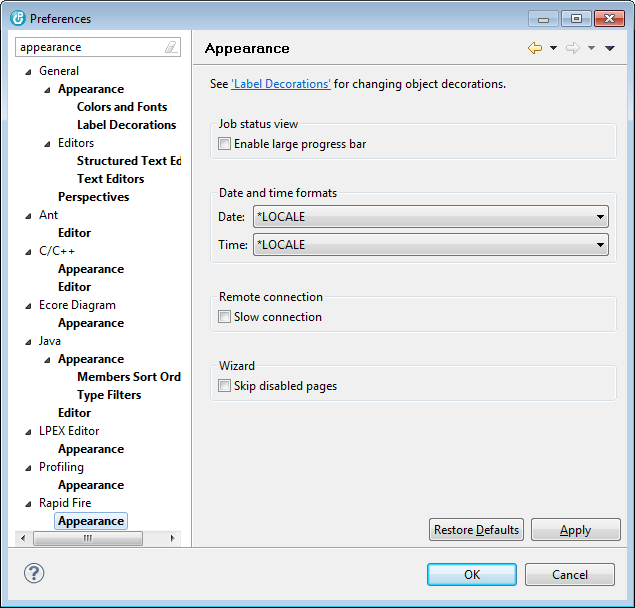
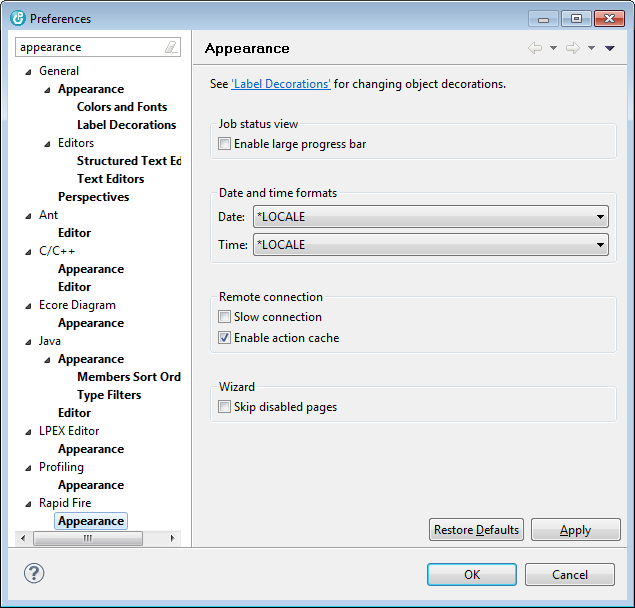
Added preferences switch "Enable action cache".
git-svn-id: https://svn.code.sf.net/p/rapid-fire/code/trunk@517 204b35f7-77ee-4d18-9f52-29c5b7e57490

Changed region(s): [[0.3291, 0.5312, 0.5386, 0.6875], [0.6583, 0.9375, 0.8079, 0.9688], [0.8378, 0.0625, 0.8677, 0.0938]]

diff --git a/eclipse/Rapid Fire Help Plugin/html/install/install_library.html b/eclipse/Rapid Fire Help Plugin/html/install/install_library.html
@@ -23,9 +23,10 @@ Before you begin:
 		                   Rapid Fire uses commitment control to update its files. Therefore a journal 
 		                   must be attached to all Rapid Fire files. By default the Rapid Fire installer
 		                   ensures that journaling is started for all Rapid Fire files.<br>
-		                   But in case that you have installed a high availability software that also use
-		                   journals to keep track of object changes, you may need to install Rapid Fire
-		                   without a journal, because that is attached by your HA software.<br><br>
+		                   But in case that you have installed a high availability software, such as 
+		                   BUS/400, MIMIX or iTERA, that also use journals to keep track of object changes, 
+		                   you may need to install Rapid Fire without a journal, because that is attached 
+		                   by your HA software.<br><br>
 		                   <font color="red">Please uncheck "Start journaling Rapid Fire files" on the 
 		                   "Transfer Rapid Fire Library" dialog to transfer the Rapid Fire library 
 		                   without attaching a journal to the Rapid Fire files.</font></td>

diff --git a/eclipse/Rapid Fire Help Plugin/html/preferences/appearance/appearance.html b/eclipse/Rapid Fire Help Plugin/html/preferences/appearance/appearance.html
@@ -57,6 +57,12 @@
 		                 enabled, <i>Rapid Fire</i> reduces fetching data from the host to a minimum,
 		                 of course with less comfort for the user.</td>
 	</tr>
+	<tr>
+		<td nowrap valign="top">Enable action cache</td><td valign="top">-</td>
+		<td valign="top">Specifies whether the state of menu options are cached. When caching is active, 
+                         context menus open faster but there might still be a problem with caching. Disable 
+                         the action cache if menu options that should be enabled are disabled.</td>
+	</tr>
 	</table>
 	<p>
 	<b>Wizard</b>

diff --git a/eclipse/Rapid Fire Core Plugin/src/biz/rapidfire/core/preferencepages/AppearancePage.java b/eclipse/Rapid Fire Core Plugin/src/biz/rapidfire/core/preferencepages/AppearancePage.java
@@ -36,6 +36,7 @@ public class AppearancePage extends PreferencePage implements IWorkbenchPreferen
     private Combo textDateFormat;
     private Combo textTimeFormat;
     private Button btnIsSlowConnection;
+    private Button btnIsActionCacheEnabled;
     private Button btnSkipDisabledPages;
 
     public AppearancePage() {
@@ -118,7 +119,6 @@ public class AppearancePage extends PreferencePage implements IWorkbenchPreferen
 
     private void createSectionDateAndTime(Composite parent) {
 
-        // Date and Time Formats
         Group groupDateAndTimeFormats = new Group(parent, SWT.NONE);
         groupDateAndTimeFormats.setLayout(new GridLayout(3, false));
         groupDateAndTimeFormats.setLayoutData(new GridData(SWT.FILL, SWT.BEGINNING, true, false, 2, 1));
@@ -143,13 +143,12 @@ public class AppearancePage extends PreferencePage implements IWorkbenchPreferen
 
     private void createSectionConnection(Composite parent) {
 
-        // Date and Time Formats
-        Group groupDateAndTimeFormats = new Group(parent, SWT.NONE);
-        groupDateAndTimeFormats.setLayout(new GridLayout(3, false));
-        groupDateAndTimeFormats.setLayoutData(new GridData(SWT.FILL, SWT.BEGINNING, true, false, 2, 1));
-        groupDateAndTimeFormats.setText(Messages.Label_Remote_Connection_settings);
+        Group groupRemoteConnection = new Group(parent, SWT.NONE);
+        groupRemoteConnection.setLayout(new GridLayout(1, false));
+        groupRemoteConnection.setLayoutData(new GridData(SWT.FILL, SWT.BEGINNING, true, false, 2, 1));
+        groupRemoteConnection.setText(Messages.Label_Remote_Connection_settings);
 
-        btnIsSlowConnection = WidgetFactory.createCheckbox(groupDateAndTimeFormats);
+        btnIsSlowConnection = WidgetFactory.createCheckbox(groupRemoteConnection);
         btnIsSlowConnection.setText(Messages.Label_Is_slow_connection);
         btnIsSlowConnection.setToolTipText(Messages.Tooltip_Is_slow_connection);
         btnIsSlowConnection.setLayoutData(new GridData(SWT.FILL, SWT.CENTER, true, false));
@@ -157,6 +156,23 @@ public class AppearancePage extends PreferencePage implements IWorkbenchPreferen
 
             public void widgetSelected(SelectionEvent event) {
                 if (validateSlowConnection()) {
+                    checkAllValues();
+                }
+            }
+
+            public void widgetDefaultSelected(SelectionEvent event) {
+                widgetSelected(event);
+            }
+        });
+
+        btnIsActionCacheEnabled = WidgetFactory.createCheckbox(groupRemoteConnection);
+        btnIsActionCacheEnabled.setText(Messages.Label_Enable_action_cache);
+        btnIsActionCacheEnabled.setToolTipText(Messages.Tooltip_Enable_action_cache);
+        btnIsActionCacheEnabled.setLayoutData(new GridData(SWT.FILL, SWT.CENTER, true, false));
+        btnIsActionCacheEnabled.addSelectionListener(new SelectionListener() {
+
+            public void widgetSelected(SelectionEvent event) {
+                if (validateActionCache()) {
                     checkAllValues();
                 }
             }
@@ -220,6 +236,7 @@ public class AppearancePage extends PreferencePage implements IWorkbenchPreferen
         preferences.setDateFormatLabel(textDateFormat.getText());
         preferences.setTimeFormatLabel(textTimeFormat.getText());
         preferences.setSlowConnection(btnIsSlowConnection.getSelection());
+        preferences.setActionCacheEnabled(btnIsActionCacheEnabled.getSelection());
         preferences.setSkipDisabledWizardPages(btnSkipDisabledPages.getSelection());
     }
 
@@ -231,6 +248,7 @@ public class AppearancePage extends PreferencePage implements IWorkbenchPreferen
         textDateFormat.setText(preferences.getDateFormatLabel());
         textTimeFormat.setText(preferences.getTimeFormatLabel());
         btnIsSlowConnection.setSelection(preferences.isSlowConnection());
+        btnIsActionCacheEnabled.setSelection(preferences.isActionCacheEnabled());
         btnSkipDisabledPages.setSelection(preferences.skipDisabledWizardPages());
 
         checkAllValues();
@@ -245,6 +263,7 @@ public class AppearancePage extends PreferencePage implements IWorkbenchPreferen
         textDateFormat.setText(preferences.getDefaultDateFormatLabel());
         textTimeFormat.setText(preferences.getDefaultTimeFormatLabel());
         btnIsSlowConnection.setSelection(preferences.getDefaultIsSlowConnection());
+        btnIsActionCacheEnabled.setSelection(preferences.getDefaultIsActionCacheEnabled());
         btnSkipDisabledPages.setSelection(preferences.getDefaultSkipDisabledWizardPages());
 
         checkAllValues();
@@ -257,6 +276,11 @@ public class AppearancePage extends PreferencePage implements IWorkbenchPreferen
     }
 
     private boolean validateSlowConnection() {
+
+        return true;
+    }
+
+    private boolean validateActionCache() {
 
         return true;
     }

diff --git a/eclipse/Rapid Fire Core Plugin/src/biz/rapidfire/core/preferences/Preferences.java b/eclipse/Rapid Fire Core Plugin/src/biz/rapidfire/core/preferences/Preferences.java
@@ -66,6 +66,7 @@ public final class Preferences {
     public static final String APPEARANCE_PROGRESS_BAR_SIZE = APPEARANCE + "PROGRESS_BAR_SIZE"; //$NON-NLS-1$
     private static final String APPEARANCE_DATE_FORMAT = APPEARANCE + "DATE_FORMAT"; //$NON-NLS-1$
     private static final String APPEARANCE_TIME_FORMAT = APPEARANCE + "TIME_FORMAT"; //$NON-NLS-1$
+    private static final String APPEARANCE_IS_ACTION_CACHE_ENABLED = APPEARANCE + "IS_ACTION_CACHE_ENABLED"; //$NON-NLS-1$
 
     private static final String WIZARD = DOMAIN + "WIZARD.";
     private static final String WIZARD_CONNECTION = WIZARD + "CONNECTION"; //$NON-NLS-1$
@@ -148,6 +149,10 @@ public final class Preferences {
         return preferenceStore.getString(APPEARANCE_TIME_FORMAT);
     }
 
+    public boolean isActionCacheEnabled() {
+        return preferenceStore.getBoolean(APPEARANCE_IS_ACTION_CACHE_ENABLED);
+    }
+
     public String getWizardConnection() {
         return preferenceStore.getString(WIZARD_CONNECTION);
     }
@@ -216,6 +221,10 @@ public final class Preferences {
         preferenceStore.setValue(APPEARANCE_TIME_FORMAT, dateFormatLabel);
     }
 
+    public void setActionCacheEnabled(boolean enabled) {
+        preferenceStore.setValue(APPEARANCE_IS_ACTION_CACHE_ENABLED, enabled);
+    }
+
     public void setWizardConnection(String connectionName) {
         preferenceStore.setValue(WIZARD_CONNECTION, connectionName);
     }
@@ -268,6 +277,7 @@ public final class Preferences {
         preferenceStore.setDefault(APPEARANCE_PROGRESS_BAR_SIZE, getDefaultIsLargeProgressBar());
         preferenceStore.setDefault(APPEARANCE_DATE_FORMAT, getDefaultDateFormatLabel());
         preferenceStore.setDefault(APPEARANCE_TIME_FORMAT, getDefaultTimeFormatLabel());
+        preferenceStore.setDefault(APPEARANCE_IS_ACTION_CACHE_ENABLED, getDefaultIsActionCacheEnabled());
 
         preferenceStore.setDefault(WIZARD_CONNECTION, getDefaultWizardConnection());
         preferenceStore.setDefault(WIZARD_RAPID_FIRE_LIBRARY, getDefaultWizardRapidFireLibrary());
@@ -325,6 +335,10 @@ public final class Preferences {
 
     public String getDefaultTimeFormatLabel() {
         return TIME_FORMAT_LOCALE;
+    }
+
+    public boolean getDefaultIsActionCacheEnabled() {
+        return true;
     }
 
     public String getDefaultWizardConnection() {

diff --git a/eclipse/Rapid Fire Core Plugin/src/biz/rapidfire/core/maintenance/job/JobManager.java b/eclipse/Rapid Fire Core Plugin/src/biz/rapidfire/core/maintenance/job/JobManager.java
@@ -184,8 +184,8 @@ public class JobManager extends AbstractManager<IRapidFireJobResource, JobKey, J
     @Override
     public Result checkAction(JobKey key, JobAction jobAction) throws Exception {
 
-        CallableStatement statement = dao.prepareCall(dao
-            .insertLibraryQualifier("{CALL " + IJDBCConnection.LIBRARY + "\"MNTJOB_checkAction\"(?, ?, ?, ?)}")); //$NON-NLS-1$ //$NON-NLS-2$
+        CallableStatement statement = dao.prepareCall(dao.insertLibraryQualifier("{CALL " + IJDBCConnection.LIBRARY //$NON-NLS-1$
+            + "\"MNTJOB_checkAction\"(?, ?, ?, ?)}")); //$NON-NLS-1$
 
         statement.setString(IJobCheckAction.ACTION, jobAction.label());
         statement.setString(IJobCheckAction.JOB, key.getJobName());
@@ -205,8 +205,8 @@ public class JobManager extends AbstractManager<IRapidFireJobResource, JobKey, J
 
     protected JobAction[] getValidActions(JobKey jobKey) throws Exception {
 
-        CallableStatement statement = dao.prepareCall(dao
-            .insertLibraryQualifier("{CALL " + IJDBCConnection.LIBRARY + "\"MNTJOB_getValidActions\"(?, ?, ?)}")); //$NON-NLS-1$ //$NON-NLS-2$
+        CallableStatement statement = dao.prepareCall(dao.insertLibraryQualifier("{CALL " + IJDBCConnection.LIBRARY //$NON-NLS-1$
+            + "\"MNTJOB_getValidActions\"(?, ?, ?)}")); //$NON-NLS-1$
 
         statement.setString(IJobGetValidActions.JOB, jobKey.getJobName());
         statement.setInt(IJobGetValidActions.NUMBER_ACTIONS, 0);
@@ -295,6 +295,22 @@ public class JobManager extends AbstractManager<IRapidFireJobResource, JobKey, J
 
     @Override
     public boolean isValidAction(IRapidFireJobResource job, JobAction action) throws Exception {
+
+        if (isActionCacheEnabled()) {
+            return isValidCachedAction(job, action);
+        } else {
+            return isValidUncachedAction(job, action);
+        }
+    }
+
+    private boolean isValidUncachedAction(IRapidFireJobResource job, JobAction action) throws Exception {
+
+        Result result = checkAction(job.getKey(), action);
+
+        return result.isSuccessfull();
+    }
+
+    private boolean isValidCachedAction(IRapidFireJobResource job, JobAction action) throws Exception {
 
         KeyJobActionCache jobActionsKey = new KeyJobActionCache(job);
 

diff --git a/eclipse/Rapid Fire Core Plugin/src/biz/rapidfire/core/maintenance/notification/NotificationManager.java b/eclipse/Rapid Fire Core Plugin/src/biz/rapidfire/core/maintenance/notification/NotificationManager.java
@@ -242,6 +242,22 @@ public class NotificationManager extends AbstractManager<IRapidFireNotificationR
     @Override
     public boolean isValidAction(IRapidFireNotificationResource notification, NotificationAction action) throws Exception {
 
+        if (isActionCacheEnabled()) {
+            return isValidCachedAction(notification, action);
+        } else {
+            return isValidUncachedAction(notification, action);
+        }
+    }
+
+    private boolean isValidUncachedAction(IRapidFireNotificationResource notification, NotificationAction action) throws Exception {
+
+        Result result = checkAction(notification.getKey(), action);
+
+        return result.isSuccessfull();
+    }
+
+    private boolean isValidCachedAction(IRapidFireNotificationResource notification, NotificationAction action) throws Exception {
+
         KeyNotificationActionCache notificationActionsKey = new KeyNotificationActionCache(notification);
 
         Set<NotificationAction> actionsSet = NotificationActionCache.getInstance().getActions(notificationActionsKey);

diff --git a/eclipse/Rapid Fire Core Plugin/src/biz/rapidfire/core/maintenance/librarylist/LibraryListManager.java b/eclipse/Rapid Fire Core Plugin/src/biz/rapidfire/core/maintenance/librarylist/LibraryListManager.java
@@ -243,6 +243,22 @@ public class LibraryListManager extends AbstractManager<IRapidFireLibraryListRes
     @Override
     public boolean isValidAction(IRapidFireLibraryListResource libraryList, LibraryListAction action) throws Exception {
 
+        if (isActionCacheEnabled()) {
+            return isValidCachedAction(libraryList, action);
+        } else {
+            return isValidUncachedAction(libraryList, action);
+        }
+    }
+
+    private boolean isValidUncachedAction(IRapidFireLibraryListResource libraryList, LibraryListAction action) throws Exception {
+
+        Result result = checkAction(libraryList.getKey(), action);
+
+        return result.isSuccessfull();
+    }
+
+    private boolean isValidCachedAction(IRapidFireLibraryListResource libraryList, LibraryListAction action) throws Exception {
+
         KeyLibraryListActionCache libraryListActionsKey = new KeyLibraryListActionCache(libraryList);
 
         Set<LibraryListAction> actionsSet = LibraryListActionCache.getInstance().getActions(libraryListActionsKey);

diff --git a/eclipse/Rapid Fire Core Plugin/src/biz/rapidfire/core/maintenance/conversion/ConversionManager.java b/eclipse/Rapid Fire Core Plugin/src/biz/rapidfire/core/maintenance/conversion/ConversionManager.java
@@ -279,6 +279,22 @@ public class ConversionManager extends AbstractManager<IRapidFireConversionResou
     @Override
     public boolean isValidAction(IRapidFireConversionResource conversion, ConversionAction action) throws Exception {
 
+        if (isActionCacheEnabled()) {
+            return isValidCachedAction(conversion, action);
+        } else {
+            return isValidUncachedAction(conversion, action);
+        }
+    }
+
+    private boolean isValidUncachedAction(IRapidFireConversionResource conversion, ConversionAction action) throws Exception {
+
+        Result result = checkAction(conversion.getKey(), action);
+
+        return result.isSuccessfull();
+    }
+
+    private boolean isValidCachedAction(IRapidFireConversionResource conversion, ConversionAction action) throws Exception {
+
         KeyConversionActionCache conversionActionsKey = new KeyConversionActionCache(conversion);
 
         Set<ConversionAction> actionsSet = ConversionActionCache.getInstance().getActions(conversionActionsKey);

diff --git a/eclipse/Rapid Fire Core Plugin/src/biz/rapidfire/core/maintenance/activity/ActivityManager.java b/eclipse/Rapid Fire Core Plugin/src/biz/rapidfire/core/maintenance/activity/ActivityManager.java
@@ -141,6 +141,22 @@ public class ActivityManager extends AbstractManager<IRapidFireActivityResource,
     @Override
     public boolean isValidAction(IRapidFireActivityResource activity, ActivityAction action) throws Exception {
 
+        if (isActionCacheEnabled()) {
+            return isValidCachedAction(activity, action);
+        } else {
+            return isValidUncachedAction(activity, action);
+        }
+    }
+
+    private boolean isValidUncachedAction(IRapidFireActivityResource activity, ActivityAction action) throws Exception {
+
+        Result result = checkAction(activity.getKey(), action);
+
+        return result.isSuccessfull();
+    }
+
+    private boolean isValidCachedAction(IRapidFireActivityResource activity, ActivityAction action) throws Exception {
+
         KeyActivityActionCache activityActionsKey = new KeyActivityActionCache(activity);
 
         Set<ActivityAction> actionsSet = ActivityActionCache.getInstance().getActions(activityActionsKey);

diff --git a/eclipse/Rapid Fire Core Plugin/src/biz/rapidfire/core/maintenance/reapplychanges/ReapplyChangesManager.java b/eclipse/Rapid Fire Core Plugin/src/biz/rapidfire/core/maintenance/reapplychanges/ReapplyChangesManager.java
@@ -138,6 +138,22 @@ public class ReapplyChangesManager extends AbstractManager<IFileCopyStatus, Area
     @Override
     public boolean isValidAction(IFileCopyStatus area, ReapplyChangesAction action) throws Exception {
 
+        if (isActionCacheEnabled()) {
+            return isValidCachedAction(area, action);
+        } else {
+            return isValidUncachedAction(area, action);
+        }
+    }
+
+    private boolean isValidUncachedAction(IFileCopyStatus area, ReapplyChangesAction action) throws Exception {
+
+        Result result = checkAction(area.getKey(), action);
+
+        return result.isSuccessfull();
+    }
+
+    private boolean isValidCachedAction(IFileCopyStatus area, ReapplyChangesAction action) throws Exception {
+
         KeyReapplyChangesActionCache reapplyChangesActionsKey = new KeyReapplyChangesActionCache(area);
 
         Set<ReapplyChangesAction> actionsSet = ReapplyChangesActionCache.getInstance().getActions(reapplyChangesActionsKey);

diff --git a/eclipse/Rapid Fire Core Plugin/src/biz/rapidfire/core/maintenance/command/CommandManager.java b/eclipse/Rapid Fire Core Plugin/src/biz/rapidfire/core/maintenance/command/CommandManager.java
@@ -247,6 +247,22 @@ public class CommandManager extends AbstractManager<IRapidFireCommandResource, C
     @Override
     public boolean isValidAction(IRapidFireCommandResource command, CommandAction action) throws Exception {
 
+        if (isActionCacheEnabled()) {
+            return isValidCachedAction(command, action);
+        } else {
+            return isValidUncachedAction(command, action);
+        }
+    }
+
+    private boolean isValidUncachedAction(IRapidFireCommandResource command, CommandAction action) throws Exception {
+
+        Result result = checkAction(command.getKey(), action);
+
+        return result.isSuccessfull();
+    }
+
+    private boolean isValidCachedAction(IRapidFireCommandResource command, CommandAction action) throws Exception {
+
         KeyCommandActionCache commandActionsKey = new KeyCommandActionCache(command);
 
         Set<CommandAction> actionsSet = CommandActionCache.getInstance().getActions(commandActionsKey);

diff --git a/eclipse/Rapid Fire Core Plugin/src/biz/rapidfire/core/maintenance/library/LibraryManager.java b/eclipse/Rapid Fire Core Plugin/src/biz/rapidfire/core/maintenance/library/LibraryManager.java
@@ -228,6 +228,22 @@ public class LibraryManager extends AbstractManager<IRapidFireLibraryResource, L
     @Override
     public boolean isValidAction(IRapidFireLibraryResource library, LibraryAction action) throws Exception {
 
+        if (isActionCacheEnabled()) {
+            return isValidCachedAction(library, action);
+        } else {
+            return isValidUncachedAction(library, action);
+        }
+    }
+
+    private boolean isValidUncachedAction(IRapidFireLibraryResource library, LibraryAction action) throws Exception {
+
+        Result result = checkAction(library.getKey(), action);
+
+        return result.isSuccessfull();
+    }
+
+    private boolean isValidCachedAction(IRapidFireLibraryResource library, LibraryAction action) throws Exception {
+
         KeyLibraryActionCache libraryActionsKey = new KeyLibraryActionCache(library);
 
         Set<LibraryAction> actionsSet = LibraryActionCache.getInstance().getActions(libraryActionsKey);
